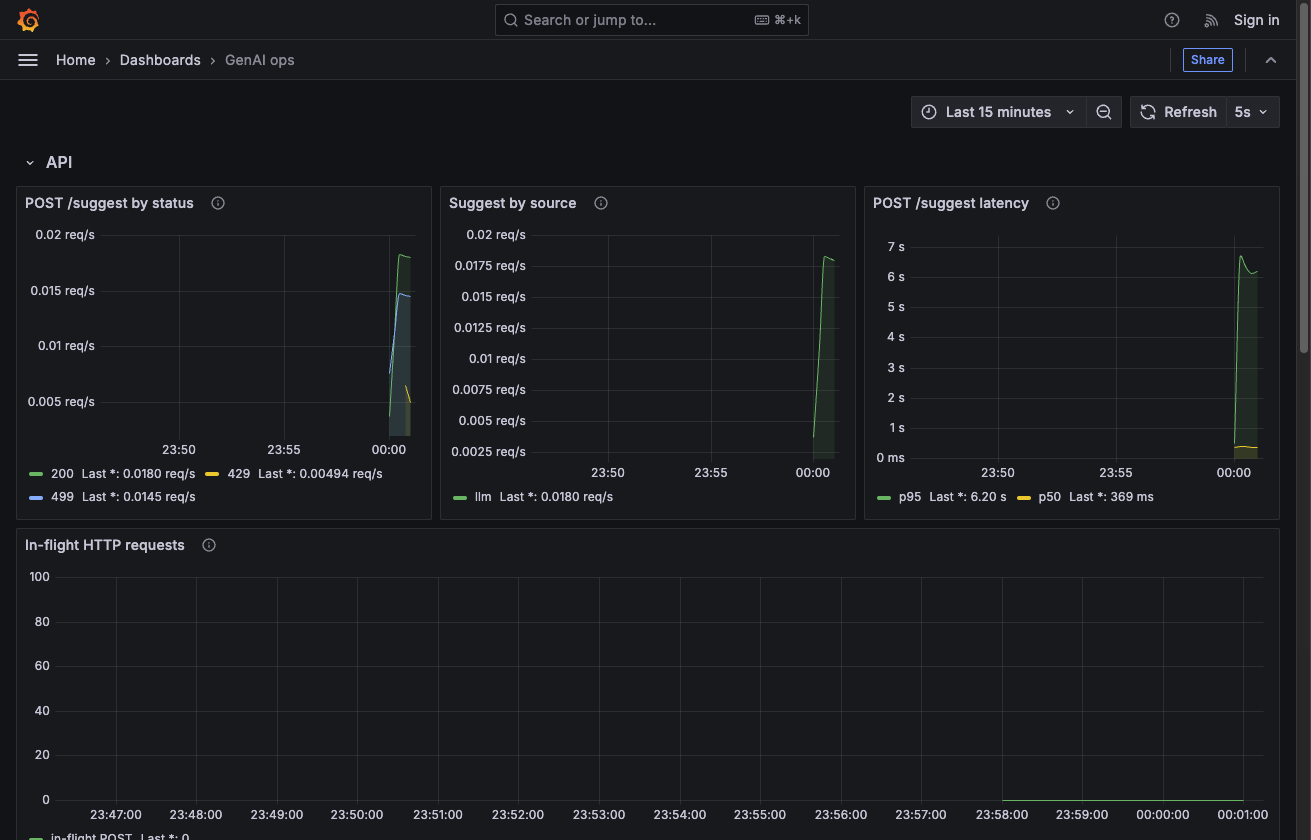
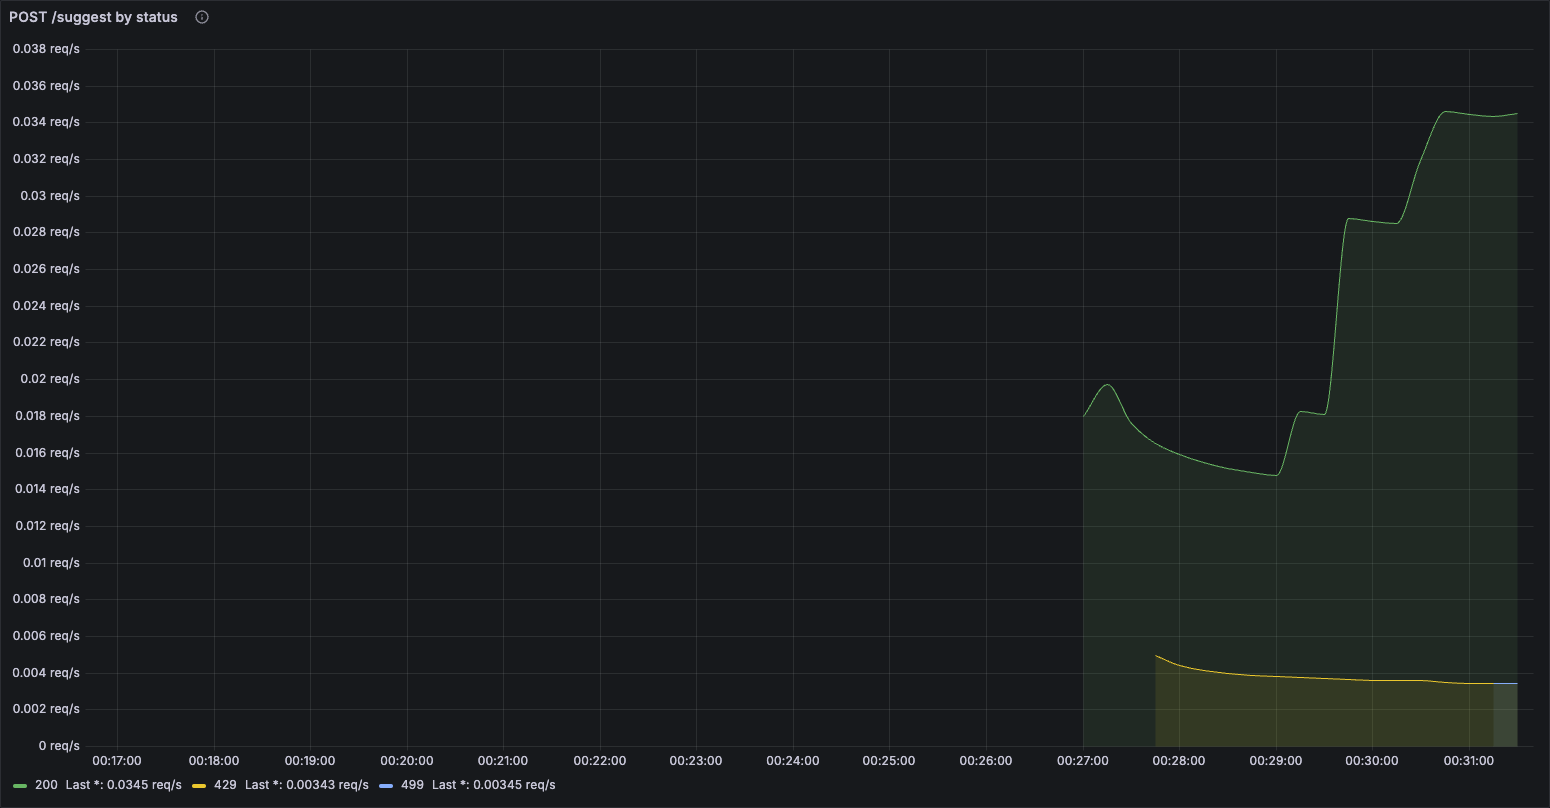
Make in-flight panel survive scrape gaps and retarget verify shots.
Use max_over_time plus a 5s scrape so mid-/suggest samples are retained, document that idle flat zeros are expected, and crop cancel verify shots off the misleading full-width gauge.

diff --git a/docs/agents/telemetry.md b/docs/agents/telemetry.md
@@ -116,7 +116,7 @@ Every panel on the provisioned dashboard and the **exact** Prom series suffix it
 | POST /suggest by status | `http_server_duration_milliseconds_count` | `sum by (http_status_code)` · `http_target="/suggest"` · rate `> 0` |
 | Suggest by source | `suggest_source_total` | `sum by (suggest_source)` · `llm` \| `fallback` \| `expectimax` · rate `> 0` |
 | POST /suggest latency | `http_server_duration_milliseconds_bucket` | `histogram_quantile` p50 + p95 · empty when no `/suggest` traffic |
-| In-flight HTTP requests | `http_server_active_requests` | `sum` · `http_method="POST"` (proxy for `/suggest`; single-tab Auto Play is serial — spikes mean multi-tab/overlap; `/health`/`/metrics`/`/client-events` not instrumented) |
+| In-flight HTTP requests | `http_server_active_requests` | `max_over_time(sum(…)[1m:])` · `http_method="POST"` (proxy for `/suggest`; 1m max retains a scrape that landed mid-call — still often **0** while idle or when `/suggest` finishes between scrapes; single-tab Auto Play is serial — spikes mean multi-tab/overlap; `/health`/`/metrics`/`/client-events` not instrumented) |
 | Client suggest outcomes | `client_suggest_outcome_total` | `sum by (outcome)` · `fail` \| `rate_limit` \| `cancel` · rate `> 0` |
 | LLM request success rate | `gen_ai_client_request_count_total` | `success` / (`success`+`error`+`timeout`); cancelled excluded; empty when idle |
 | LLM requests by outcome | `gen_ai_client_request_count_total` | `sum by (gen_ai_request_outcome)` · `success` \| `error` \| `timeout` \| `cancelled` · rate `> 0` |

diff --git a/docs/agents/runtime.md b/docs/agents/runtime.md
@@ -75,8 +75,8 @@ Over the limit returns `429` with `Retry-After`. The cap is not per browser: in 
 
 `GET /metrics` on the API is always on (Prometheus text). Pair `--profile metrics` with `dev` or `prod` to scrape it:
 
-- Prometheus scrapes Compose DNS `api:8000` (`dev` and `prod` both publish that alias).
-- Grafana **GenAI ops** (`/d/game2048-genai`): API row (`/suggest` by status, suggest by source, latency p50/p95, in-flight POSTs), Client row (fail / rate_limit / cancel beacons), and LLM row (success rate excluding cancelled, outcomes incl. cancelled, error types, duration p50/p95, tokens). Unstacked rate lines; legend **Last \*** skips idle zeros. Inventory: [telemetry.md](telemetry.md).
+- Prometheus scrapes Compose DNS `api:8000` (`dev` and `prod` both publish that alias) every **5s**.
+- Grafana **GenAI ops** (`/d/game2048-genai`): API row (`/suggest` by status, suggest by source, latency p50/p95, in-flight POSTs via `max_over_time` — often 0 while idle or when calls finish between scrapes), Client row (fail / rate_limit / cancel beacons), and LLM row (success rate excluding cancelled, outcomes incl. cancelled, error types, duration p50/p95, tokens). Unstacked rate lines; legend **Last \*** skips idle zeros. Inventory: [telemetry.md](telemetry.md).
 - Anonymous Viewer access on loopback; no Alertmanager or retention stack. Prometheus Graph is ad-hoc only.
 
 Config lives under `observability/` (`prometheus.yml`, Grafana provisioning).

diff --git a/docs/verify/README.md b/docs/verify/README.md
@@ -4,8 +4,13 @@ Captured against Compose `--profile dev --profile metrics` on the
 `cancel-observability` worktree after e2e + live traffic (client cancel
 beacons, mid-suggest disconnect → HTTP `499` / GenAI `cancelled`).
 
+Shots are cropped to the cancel-proof panels. The full-width **In-flight
+HTTP requests** gauge is often a flat zero while idle or when `/suggest`
+finishes between Prometheus scrapes — that is expected, not a cancel
+regression (see [telemetry.md](../agents/telemetry.md)).
+
 | Shot | What it proves |
 | --- | --- |
-| [cancel-obs-grafana-api-client.png](./cancel-obs-grafana-api-client.png) | API row shows `/suggest` **499** alongside 200 / 429 |
+| [cancel-obs-grafana-api-client.png](./cancel-obs-grafana-api-client.png) | API **POST /suggest by status** shows **499** alongside 200 / 429 |
 | [cancel-obs-grafana-client-cancel.png](./cancel-obs-grafana-client-cancel.png) | Client row charts **cancel** / fail / rate_limit |
 | [cancel-obs-grafana-llm-cancelled.png](./cancel-obs-grafana-llm-cancelled.png) | LLM outcomes include **cancelled**; success rate stays 100% (cancelled excluded) |
